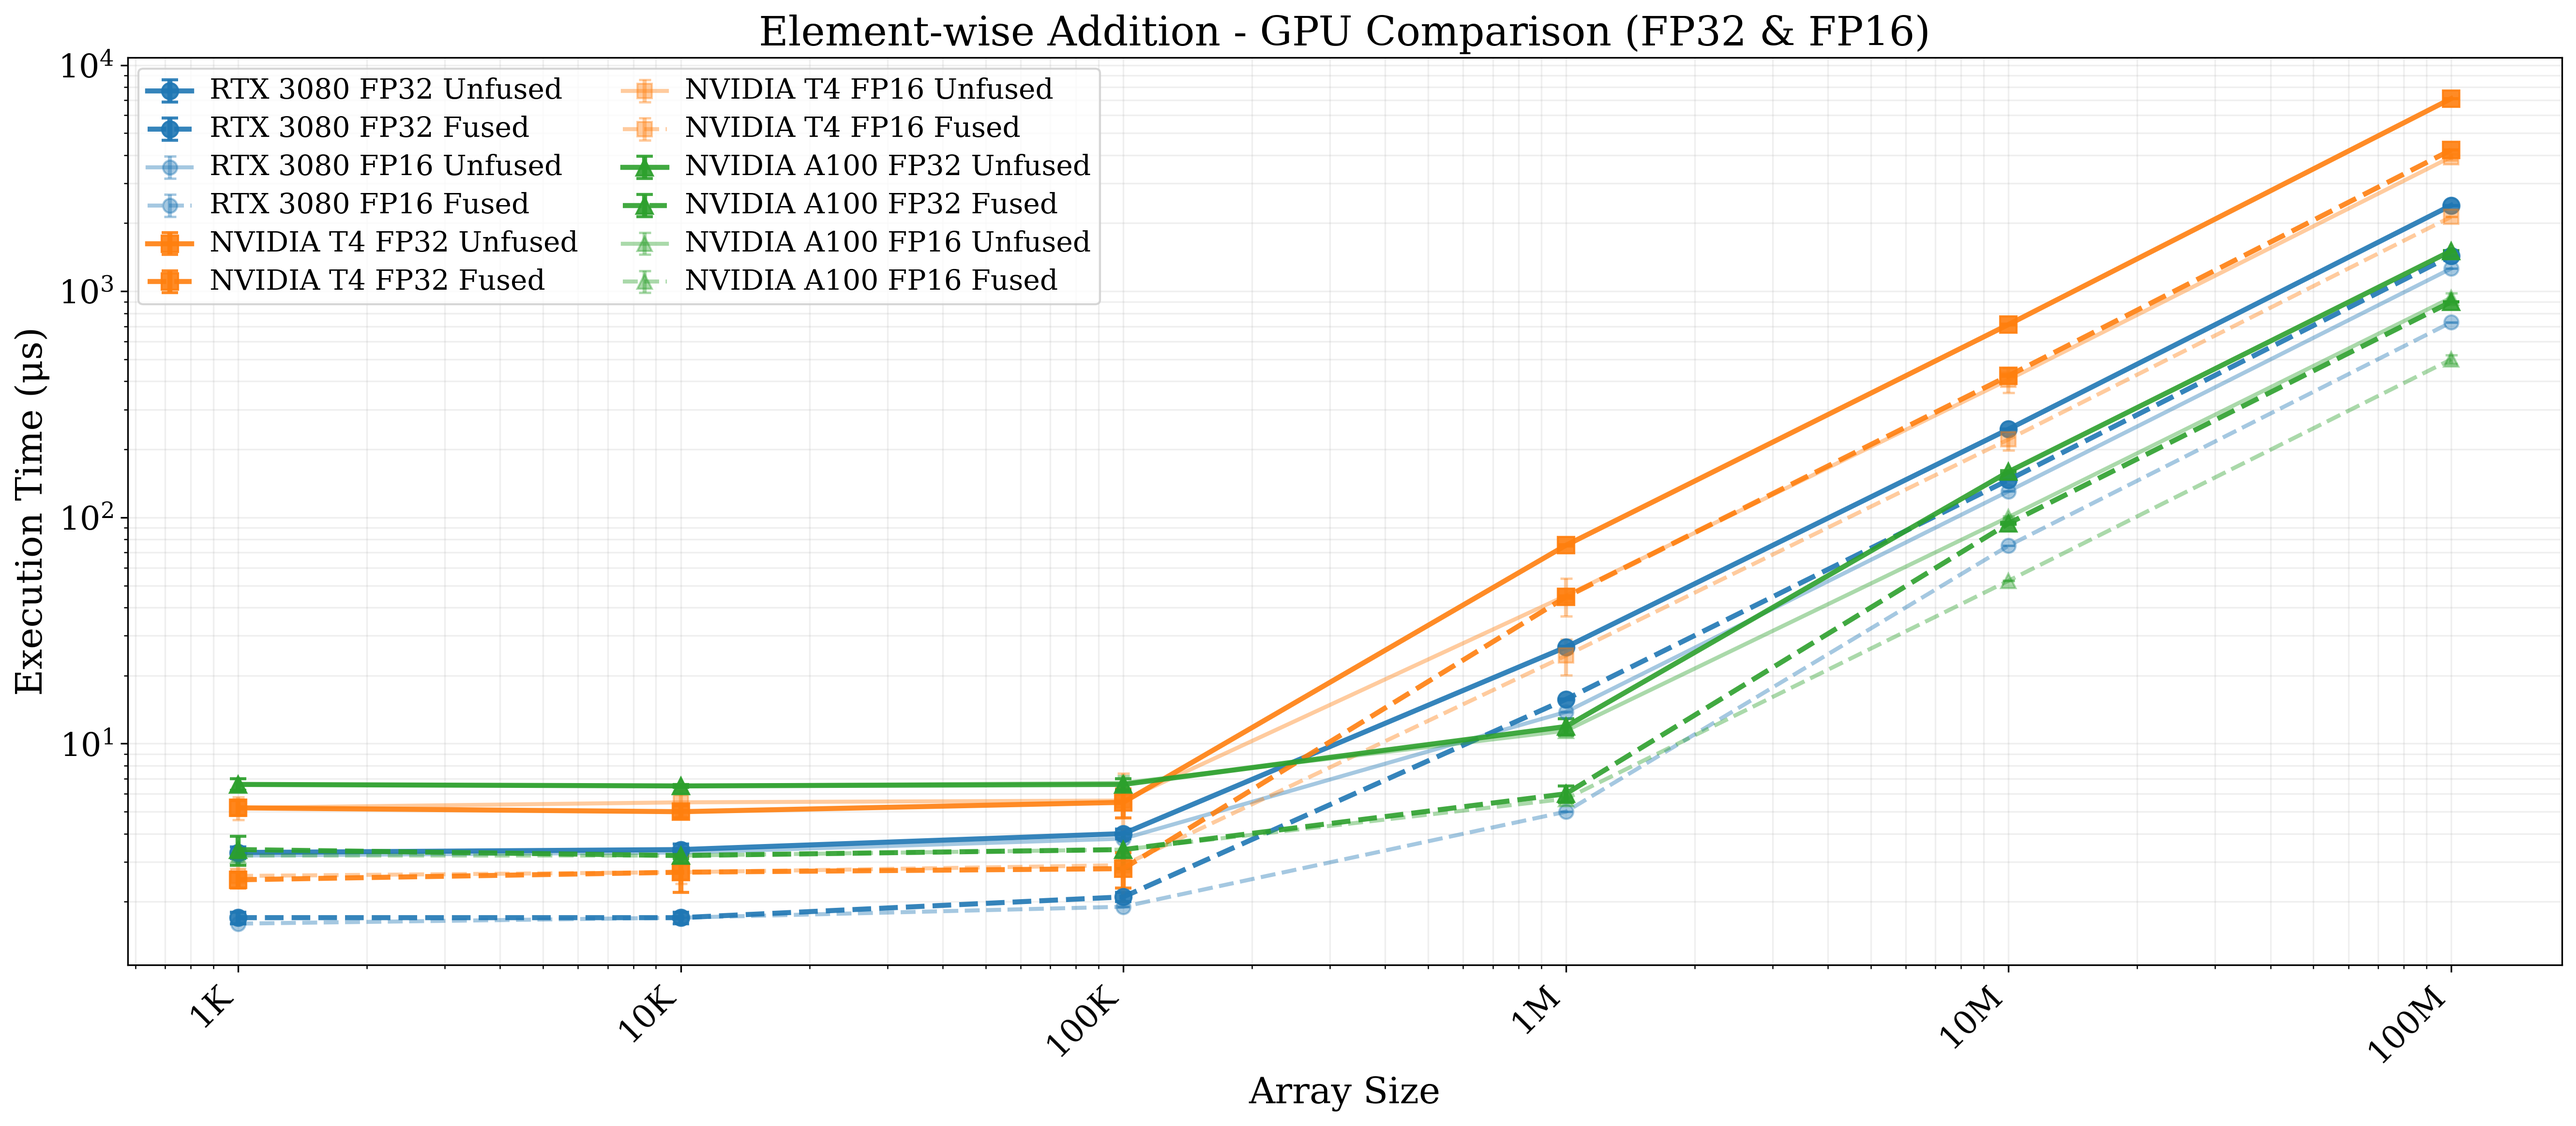
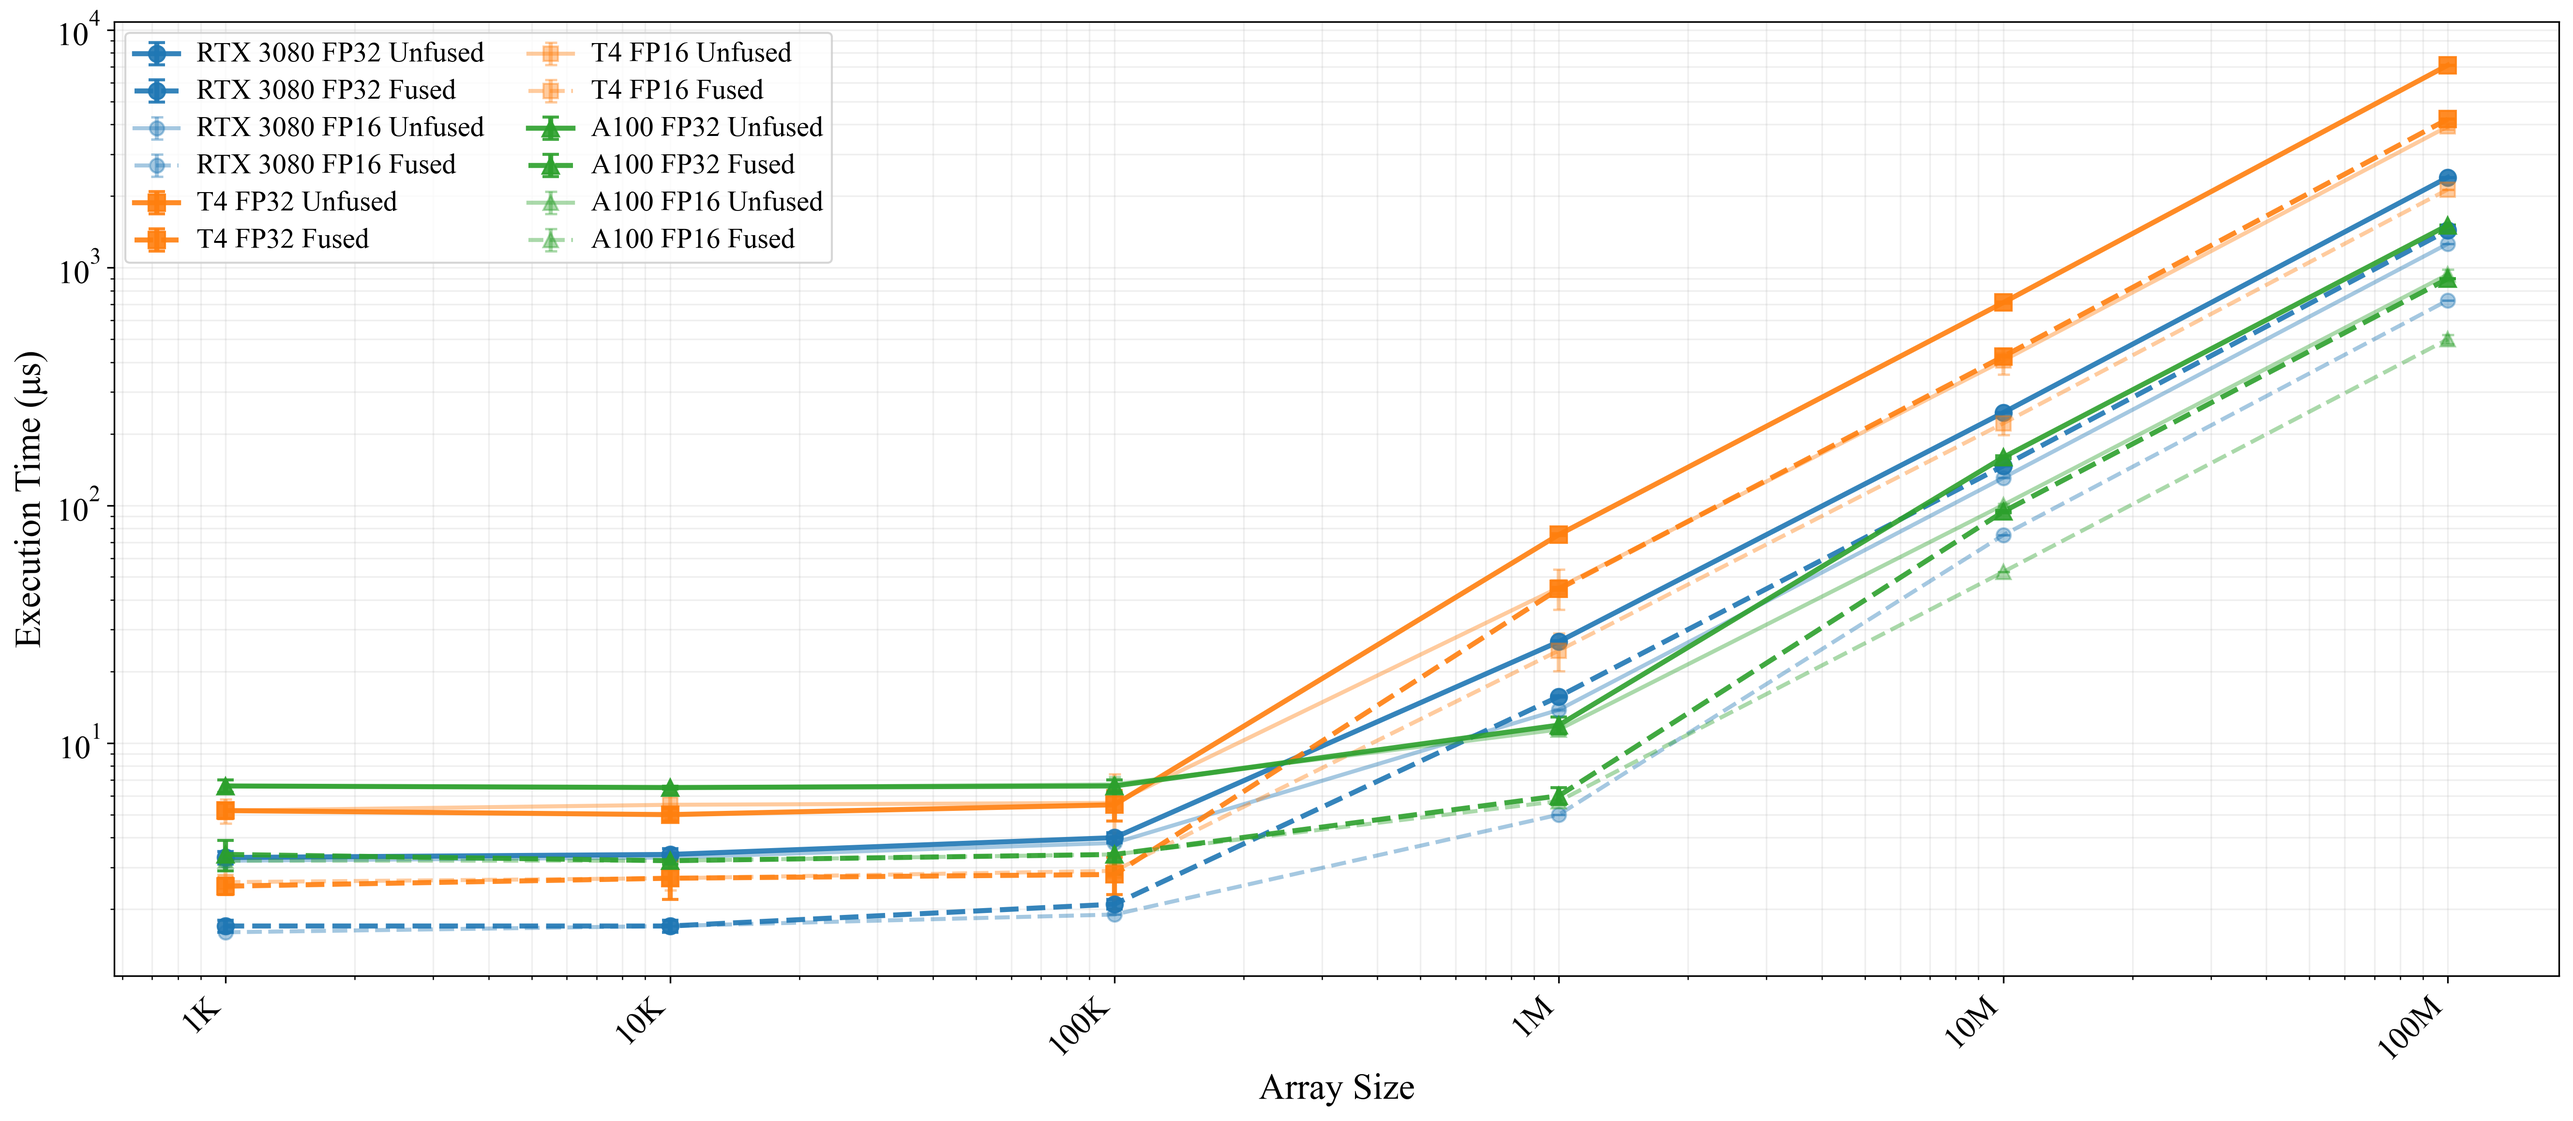
Remove title.

diff --git a/scripts/plot_utils.py b/scripts/plot_utils.py
@@ -588,7 +588,7 @@ def plot_time_comparison_all_gpus(
     ax.set_yscale("log")
     ax.set_xlabel("Array Size", fontsize=AXIS_LABEL_FONTSIZE)
     ax.set_ylabel("Execution Time (μs)", fontsize=AXIS_LABEL_FONTSIZE)
-    ax.set_title(f"{operation_name} - {precision.upper()} - GPU Comparison", fontsize=AXIS_LABEL_FONTSIZE + 2)
+    # ax.set_title(f"{operation_name} - {precision.upper()} - GPU Comparison", fontsize=AXIS_LABEL_FONTSIZE + 2)
     ax.set_xticks(sizes)
     ax.set_xticklabels(SIZE_LABELS, rotation=45, ha='right')
     ax.grid(True, which="both", ls="-", alpha=0.2)
@@ -682,7 +682,7 @@ def plot_time_comparison_all_gpus_both_precisions(
     ax.set_yscale("log")
     ax.set_xlabel("Array Size", fontsize=AXIS_LABEL_FONTSIZE)
     ax.set_ylabel("Execution Time (μs)", fontsize=AXIS_LABEL_FONTSIZE)
-    ax.set_title(f"{operation_name} - GPU Comparison (FP32 & FP16)", fontsize=AXIS_LABEL_FONTSIZE + 2)
+    # ax.set_title(f"{operation_name} - GPU Comparison (FP32 & FP16)", fontsize=AXIS_LABEL_FONTSIZE + 2)
     ax.set_xticks(sizes)
     ax.set_xticklabels(SIZE_LABELS, rotation=45, ha='right')
     ax.grid(True, which="both", ls="-", alpha=0.2)
